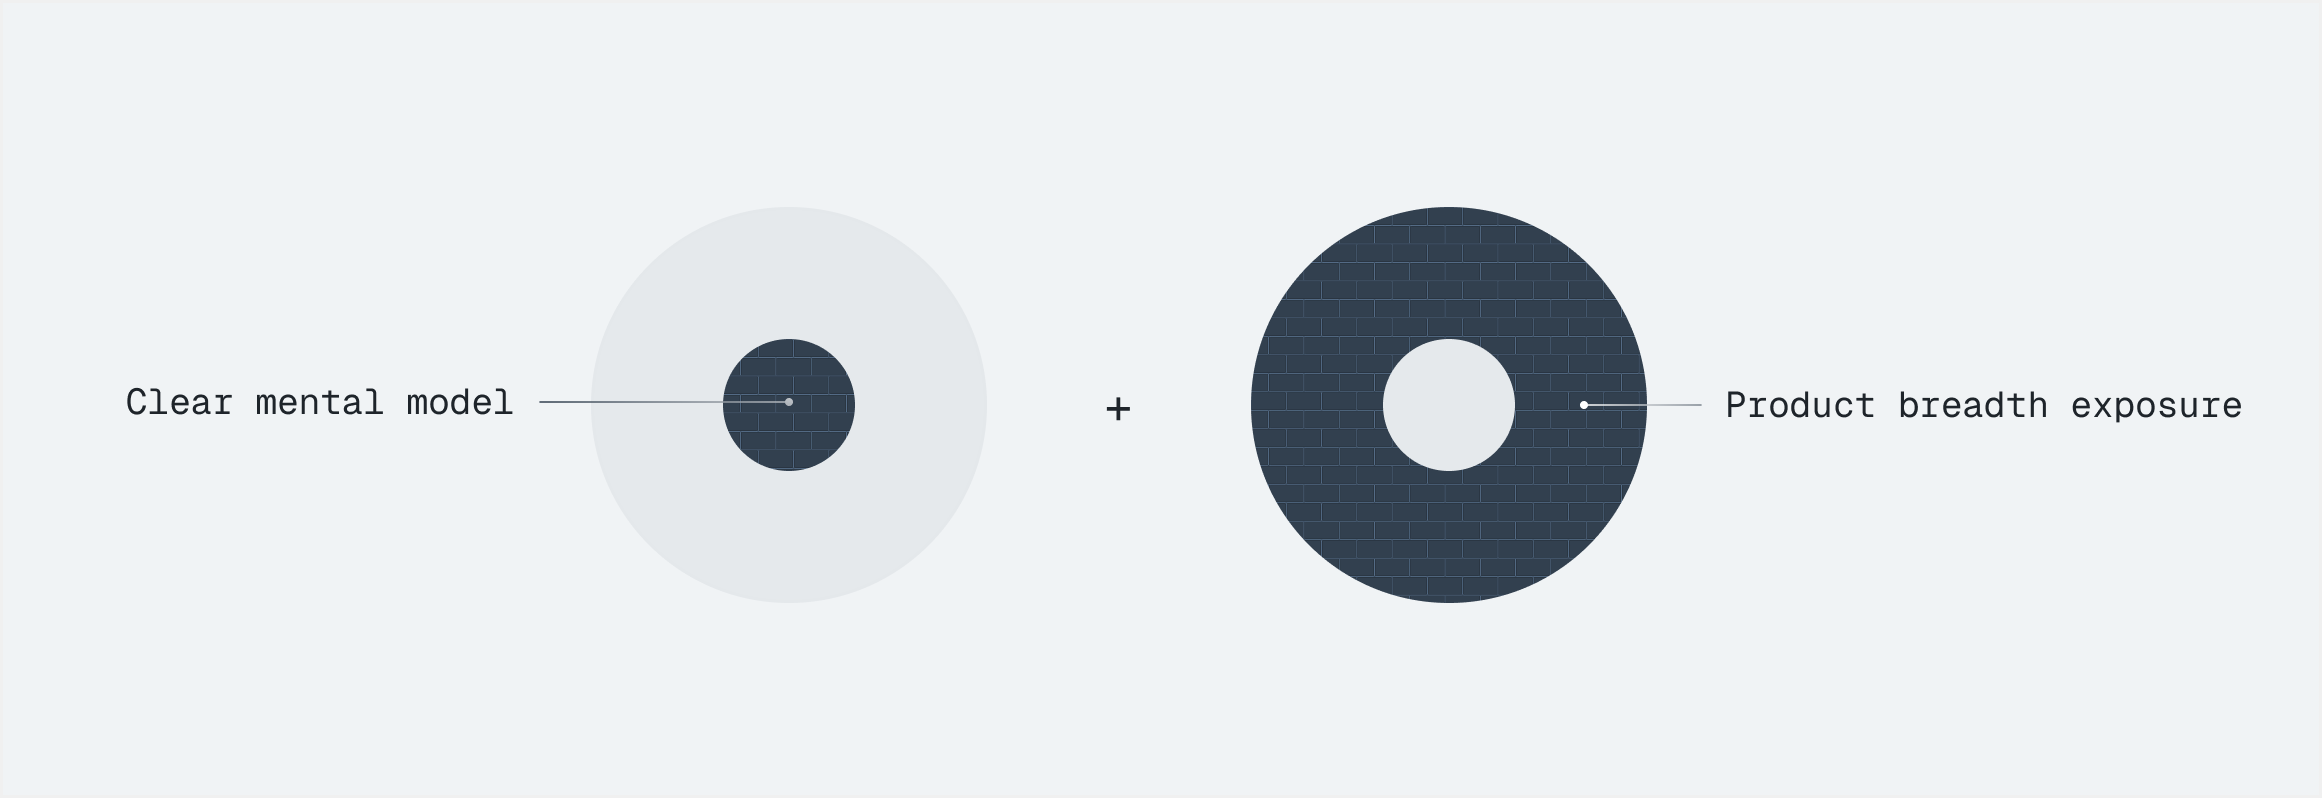
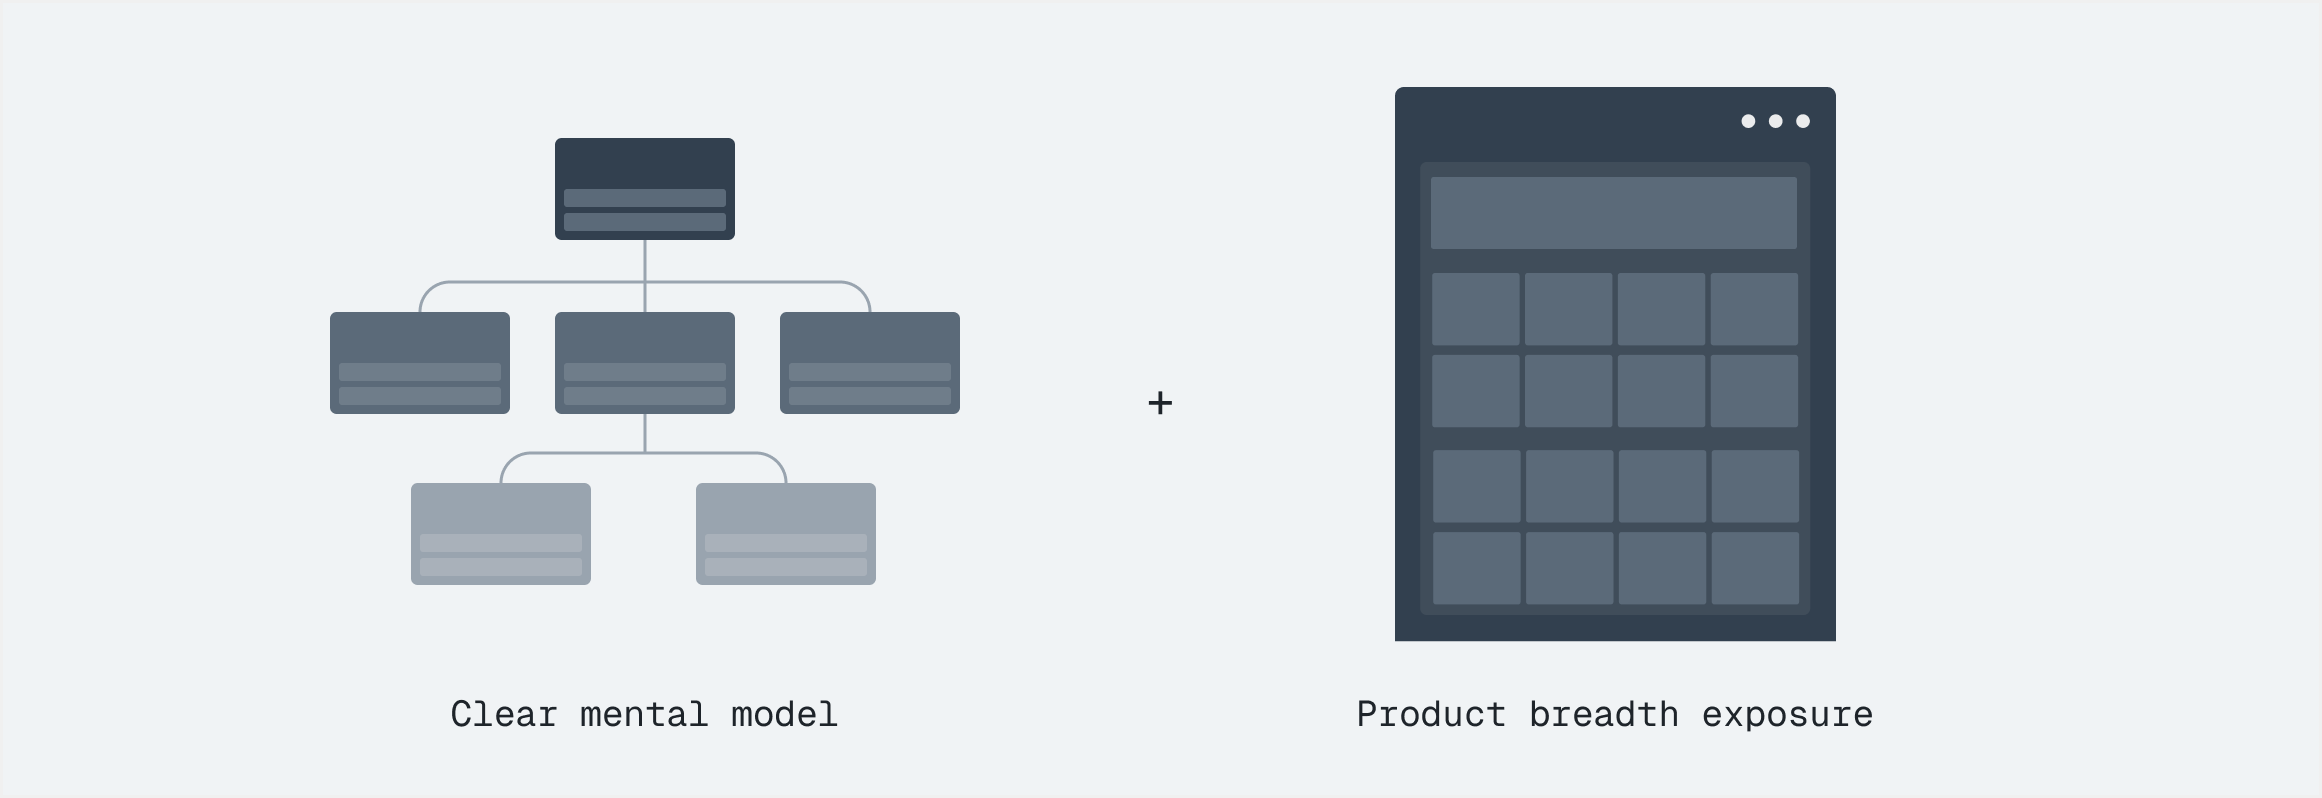
Fix GRS background copy and layout; restore headings and image order in design library

diff --git a/src/imports/DesignLibrary.tsx b/src/imports/DesignLibrary.tsx
@@ -119,8 +119,8 @@ function ContentSections() {
   return (
     <div className="col-[1] content-stretch flex flex-col gap-[16px] items-start justify-self-stretch max-w-[774px] relative row-[2] self-start shrink-0 w-full" data-name="Content Sections">
       <SectionContainer1 />
-      <Frame13 />
       <MyRoleDescription />
+      <Frame13 />
     </div>
   );
 }
@@ -181,8 +181,8 @@ function Property1() {
   return (
     <div className="col-[1] content-stretch flex flex-col gap-[16px] items-start max-w-[774px] relative row-[6] self-start shrink-0 w-full" data-name="Property">
       <Frame5 />
-      <Frame14 />
       <AuditDescription />
+      <Frame14 />
     </div>
   );
 }
@@ -231,8 +231,8 @@ function PropertyRequirement() {
   return (
     <div className="col-[1] content-stretch flex flex-col gap-[16px] items-start max-w-[774px] relative row-[7] self-start shrink-0 w-full" data-name="Property">
       <Frame5Requirement />
-      <Frame14Requirement />
       <RequirementAnalysisDescription />
+      <Frame14Requirement />
     </div>
   );
 }
@@ -540,8 +540,8 @@ function Property6() {
   return (
     <div className="col-[1] content-stretch flex flex-col gap-[16px] items-start justify-self-stretch max-w-[774px] relative row-[4] self-start shrink-0 w-full" data-name="Property">
       <Frame4 />
-      <Frame12 />
       <ProblemDescription />
+      <Frame12 />
     </div>
   );
 }
@@ -708,8 +708,8 @@ function Property9() {
   return (
     <div className="col-[1] content-stretch flex flex-col gap-[16px] items-start justify-self-stretch max-w-[774px] relative row-[11] self-start shrink-0 w-full" data-name="Property">
       <Frame10 />
-      <Frame18 />
       <Solution2Description />
+      <Frame18 />
     </div>
   );
 }
@@ -770,8 +770,8 @@ function Property10() {
   return (
     <div className="col-[1] content-stretch flex flex-col gap-[16px] items-start justify-self-stretch max-w-[774px] relative row-[12] self-start shrink-0 w-full" data-name="Property">
       <Frame11 />
-      <Frame19 />
       <Solution3Description />
+      <Frame19 />
     </div>
   );
 }
@@ -832,8 +832,8 @@ function PropertyOutcome() {
   return (
     <div className="col-[1] content-stretch flex flex-col gap-[16px] items-start justify-self-stretch max-w-[774px] relative row-[13] self-start shrink-0 w-full" data-name="Property">
       <Frame11DesignOutcome />
-      <Frame19DesignOutcome />
       <DesignOutcomeDescription />
+      <Frame19DesignOutcome />
     </div>
   );
 }

diff --git a/src/imports/GlobalRewardStorefront.tsx b/src/imports/GlobalRewardStorefront.tsx
@@ -80,7 +80,7 @@ function Frame5() {
         <p className="leading-[22.5px] whitespace-pre-wrap">Sitemap Audit</p>
       </div>
       <div className="flex flex-col font-newsreader justify-center relative shrink-0 text-[#1e242a] text-[35px] tracking-[-0.64px] w-full">
-        <p className="leading-[46px] whitespace-pre-wrap">Three frictions that hid the storefront’s full value</p>
+        <p className="leading-[46px] whitespace-pre-wrap">Three frictions that slowed reward discovery{"\n"}and hid the storefront’s full value</p>
       </div>
     </div>
   );
@@ -449,7 +449,7 @@ function SectionContainer2() {
         <p className="leading-[22.5px] whitespace-pre-wrap">Background</p>
       </div>
       <div className="flex flex-col font-newsreader justify-center relative shrink-0 text-[#1e242a] text-[35px] tracking-[-0.64px] w-full">
-        <p className="leading-[46px] whitespace-pre-wrap">A platform rebuilt from scratch for every new client.</p>
+        <p className="leading-[46px] whitespace-pre-wrap">Employees redeem points for rewards in the storefront</p>
       </div>
     </div>
   );
@@ -459,7 +459,7 @@ function BackgroundDescription() {
   return (
     <div className="flex flex-col font-geist justify-center relative shrink-0 text-[16px] text-[rgba(50,64,79,0.58)] w-full">
       <p className="leading-[22.5px] whitespace-pre-wrap">
-        It&apos;s a B2B SaaS rewards and recognition platform used by enterprise companies. It allows them to create branded reward programs where employees earn points and redeem them through an online storefront.
+        Global Rewards Storefront is the redemption layer of the engagement platform, where employees redeem points for products, gift cards, or experiences.
       </p>
     </div>
   );
